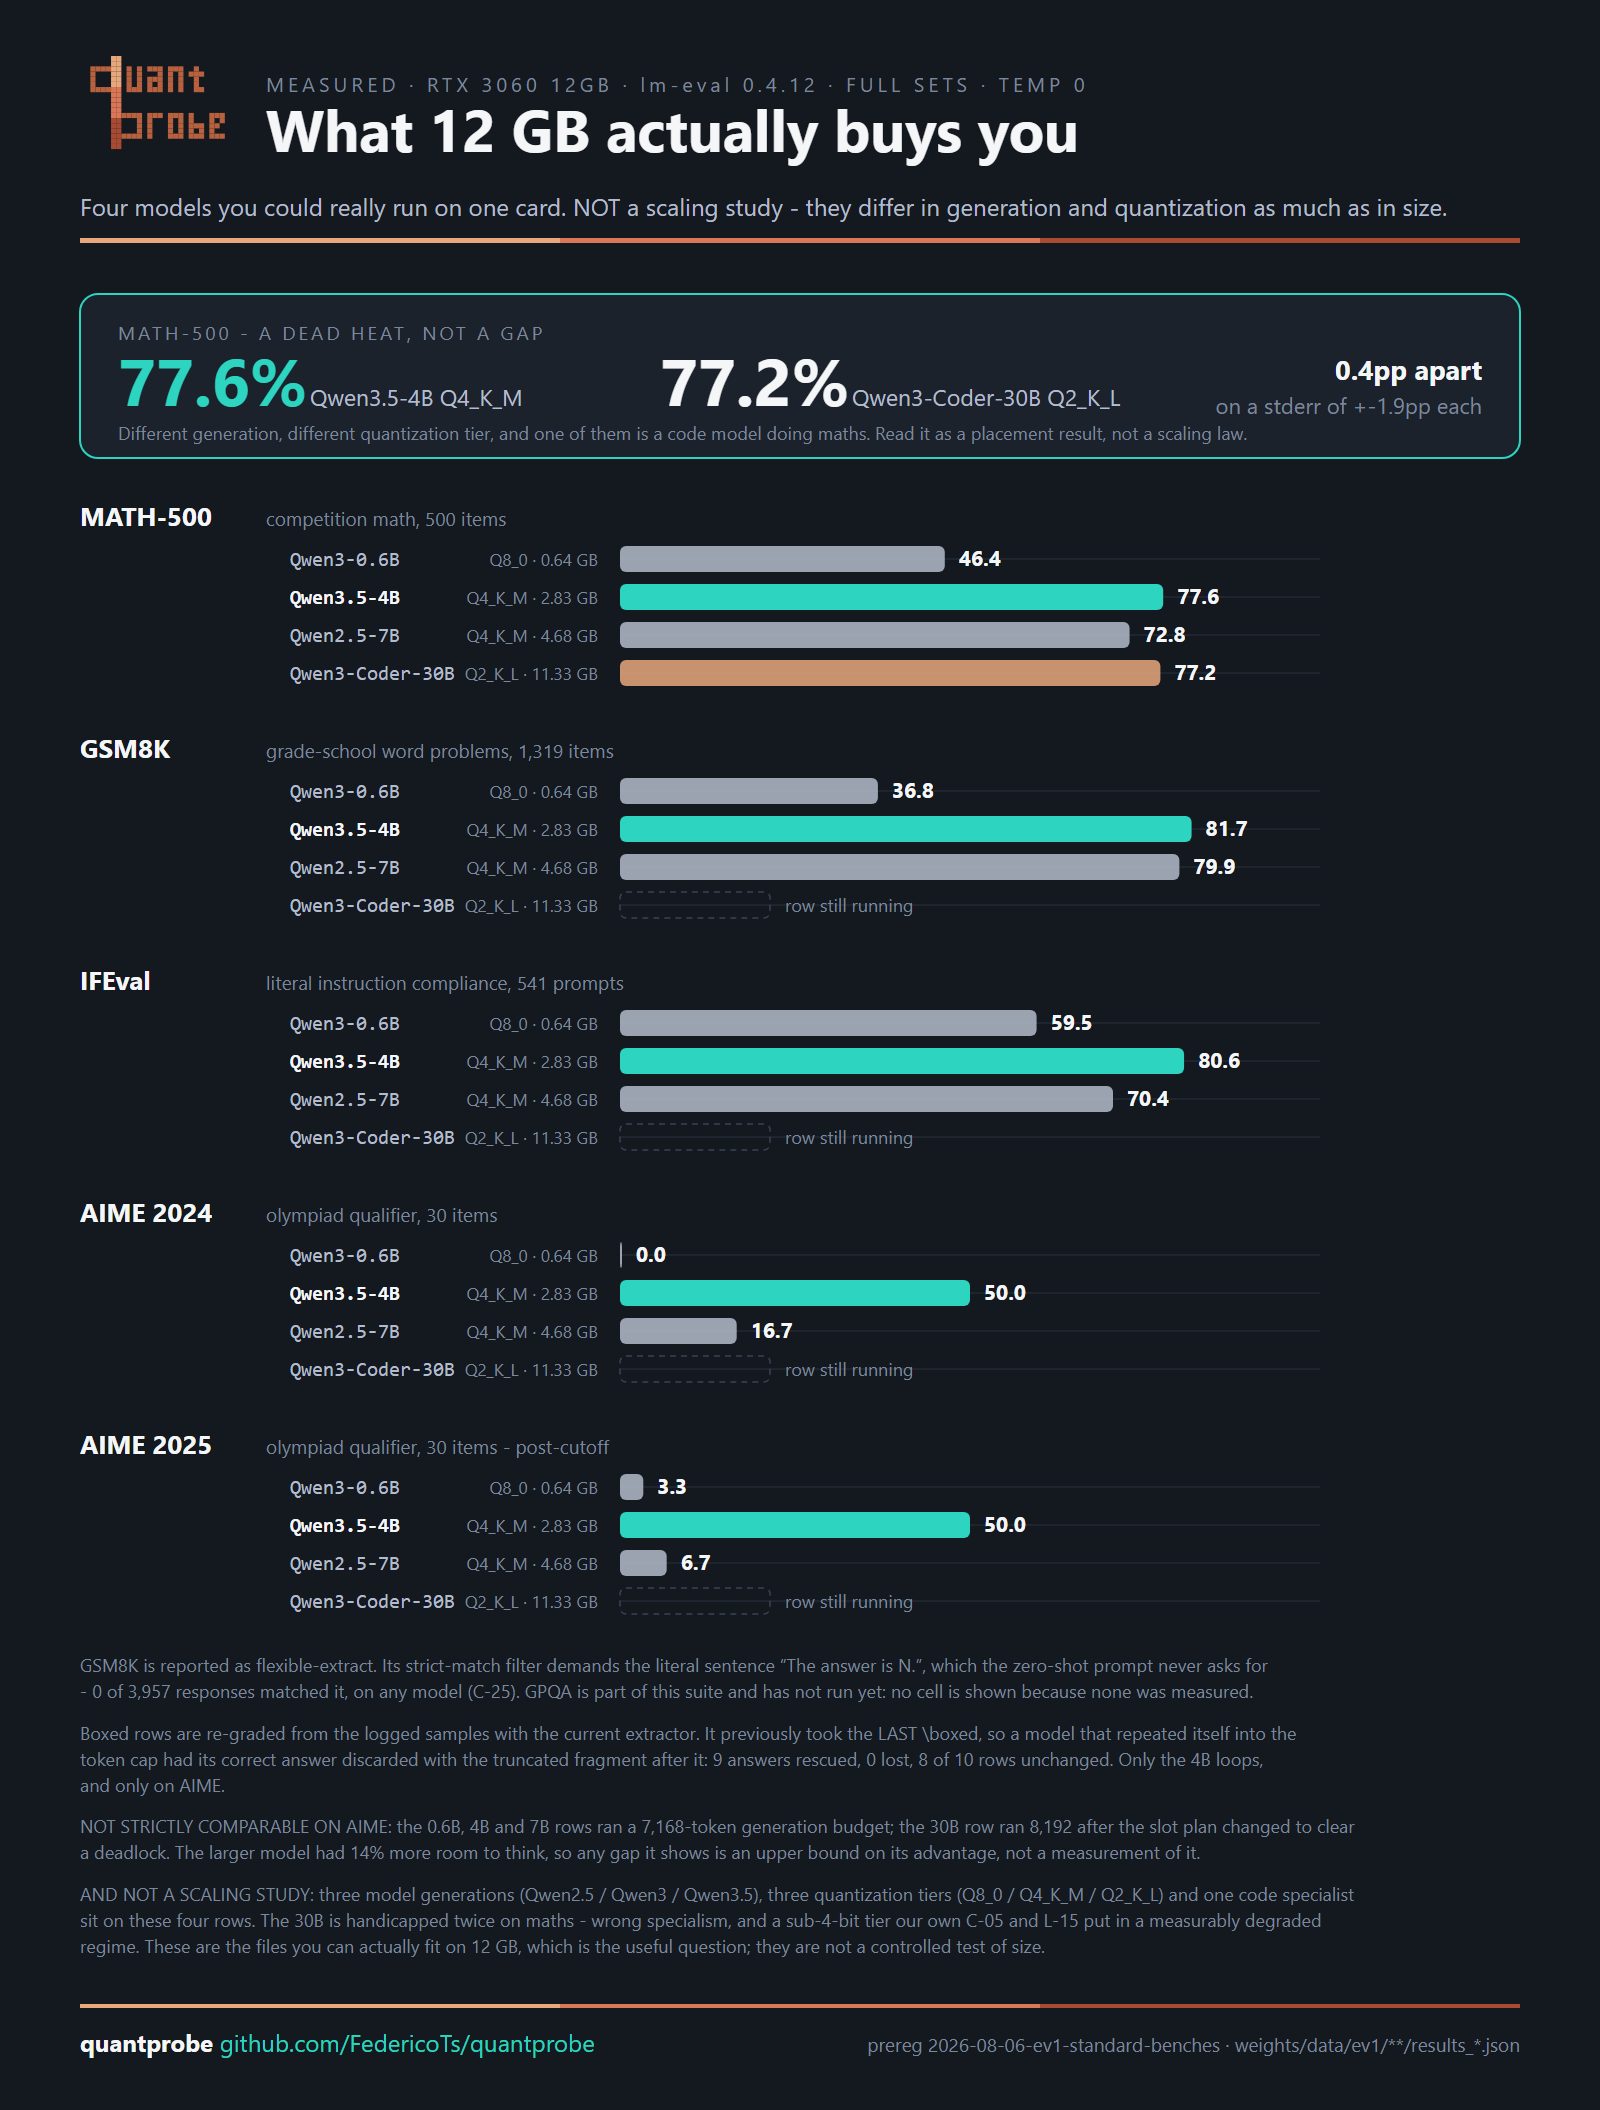
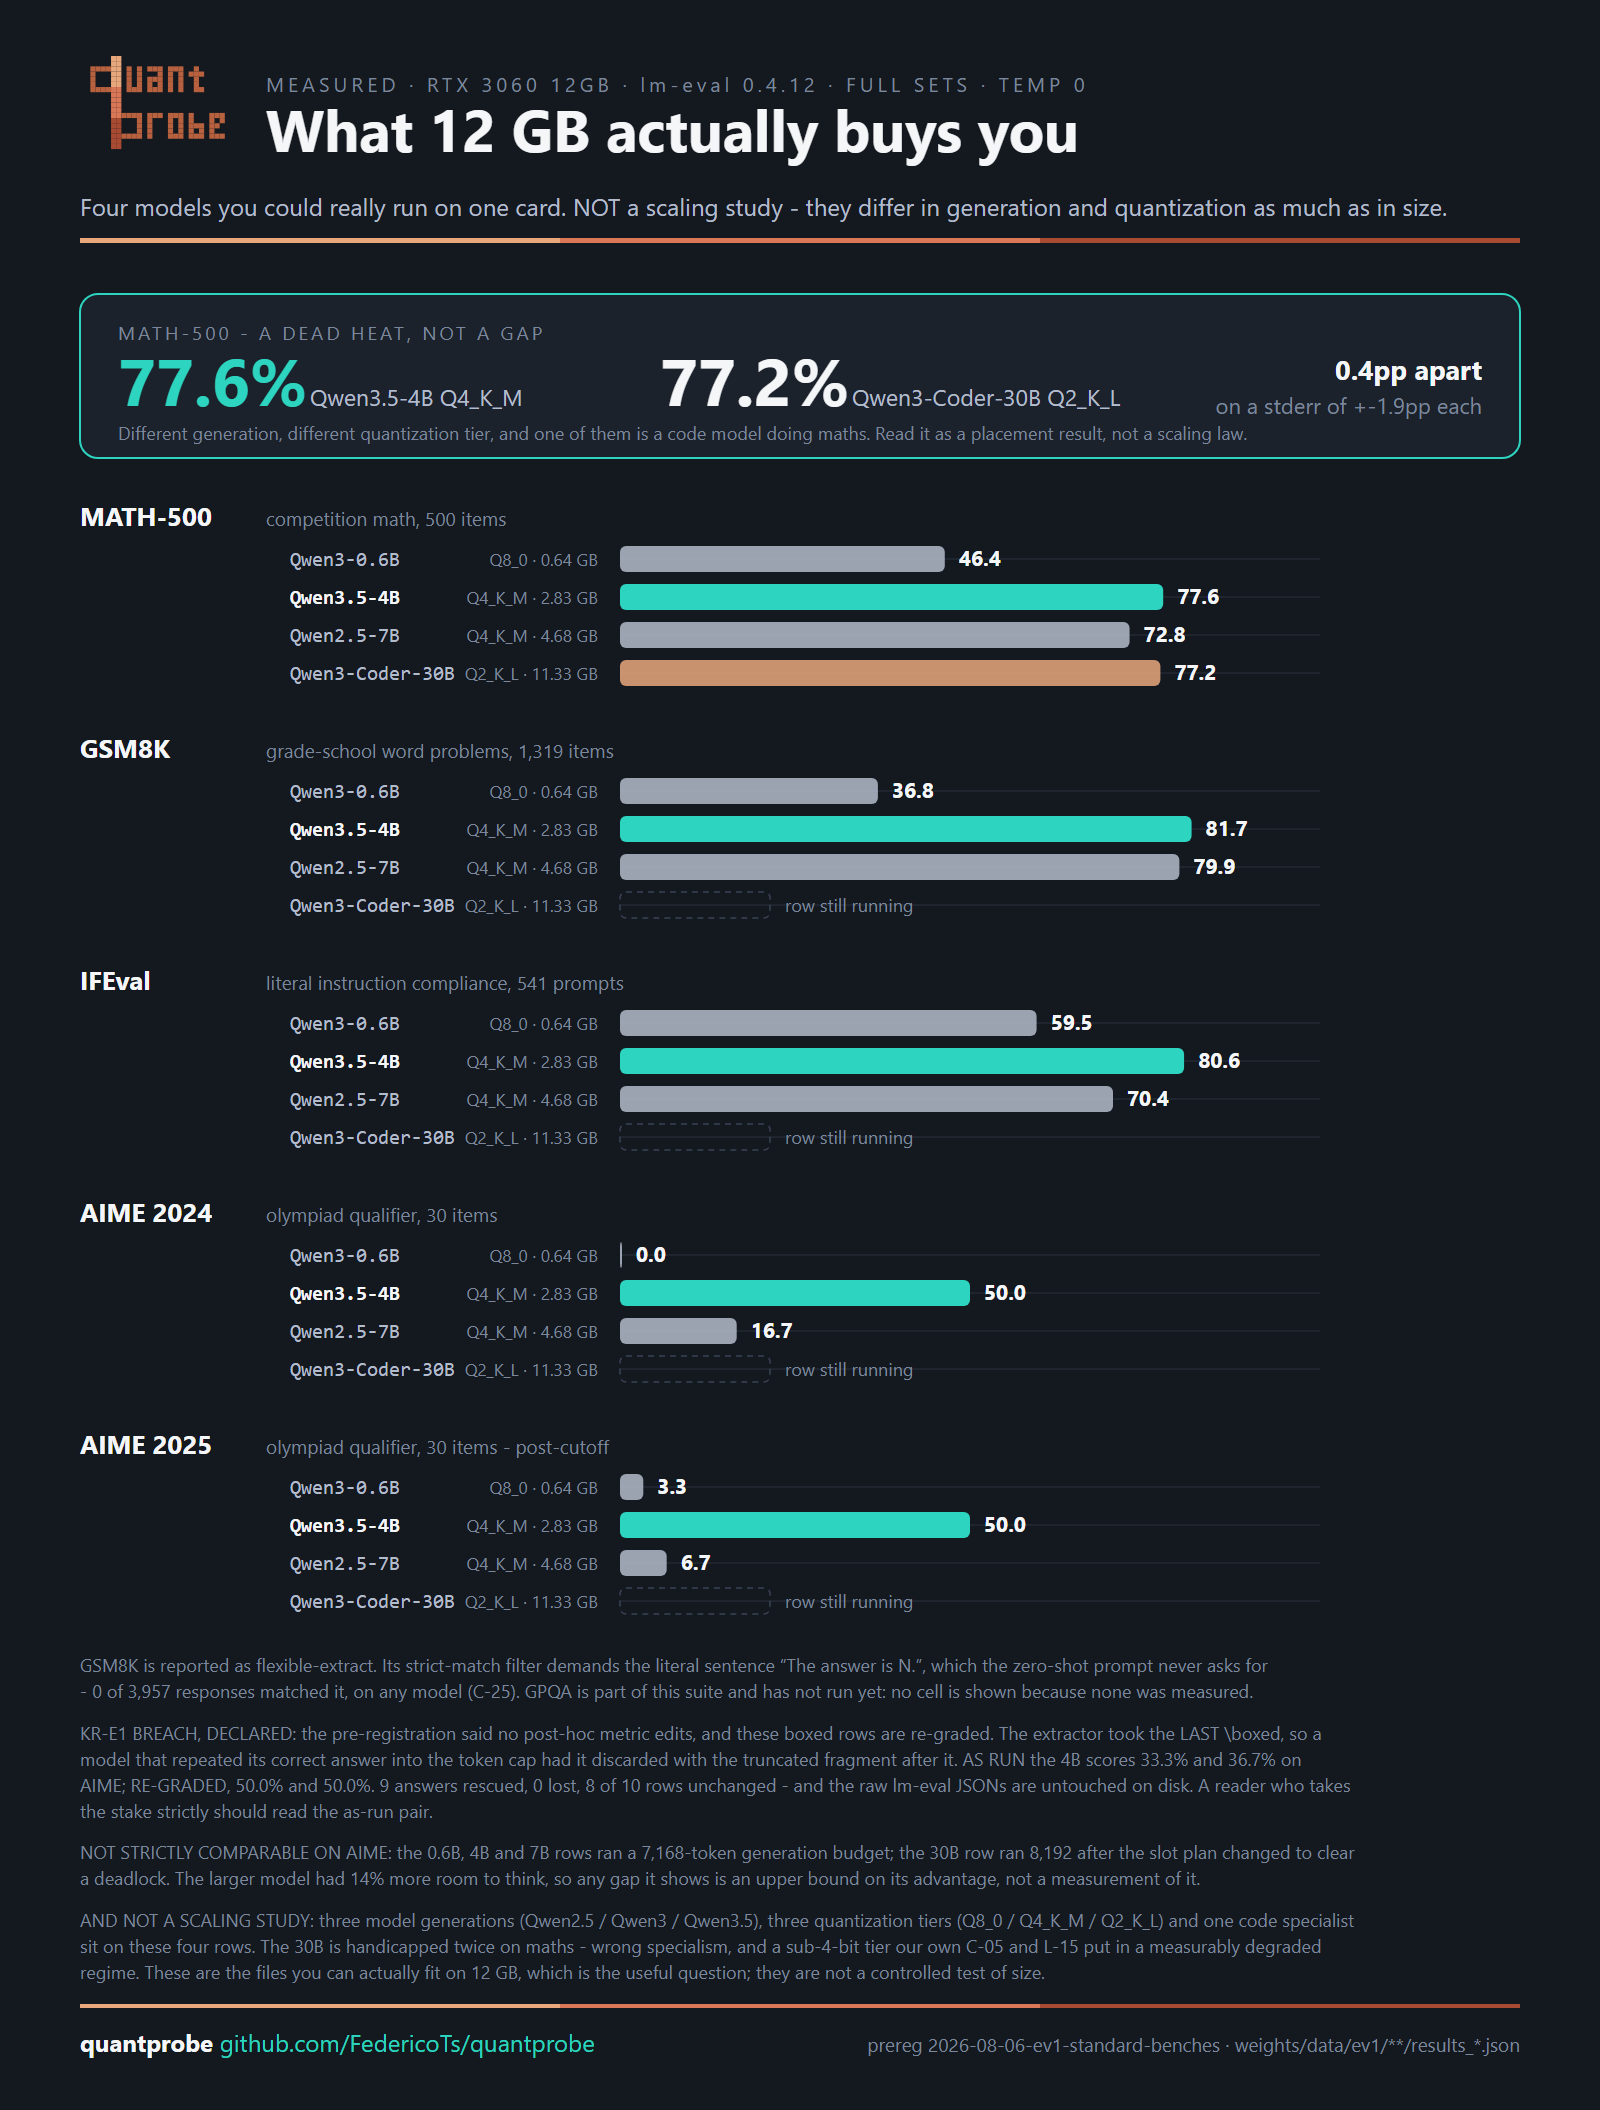
KR-E1 breach, declared - the C-26 re-grade is a post-hoc metric edit
The pre-registration staked "scorer is lm-eval as pinned - no post-hoc metric edits;
result JSONs committed raw". The C-26 extractor fix is a post-hoc metric edit. It was made
after seeing the numbers, and it raised a headline by 17 points on two rows.

I could argue it is a defect fix rather than a metric choice, and I believe that. It does
not matter. The rule exists precisely because "we fixed the scorer and the score went up"
is what a thumb on the scale sounds like from outside, and good faith is invisible from
there. Arguing the exception is what the rule is for.

So both numbers ship, everywhere:

  4B AIME 2024   as run 33.3%   re-graded 50.0%
  4B AIME 2025   as run 36.7%   re-graded 50.0%
  other 8 rows   unchanged      unchanged

A dated amendment on the prereg, the breach named on the chart itself, and the same in
C-26's scope. The raw lm-eval JSONs stay untouched on disk exactly as KR-E1 requires -
re-grading happens beside them in ev1_report.rescore_boxed, never over them - and every row
carries _rescued/_lost provenance.

The one argument that is not just assertion: the correction moved 8 of the 10 boxed rows by
exactly zero. A scorer change that improved everything would deserve no trust. One that
fires only where a specifically described defect occurs can be checked by anyone with the
samples, which are committed.

P-E1 and P-E2 will be scored against the re-graded numbers with the breach attached, since
[…]

Changed region(s): [[0.0312, 0.8009, 0.8438, 0.955]]

diff --git a/weights/make_capability_ladder.py b/weights/make_capability_ladder.py
@@ -180,11 +180,13 @@ def main():
          "sentence “The answer is N.”, which the zero-shot prompt never asks for - "
          "0 of 3,957 responses matched it, on any model (C-25). GPQA is part of this suite and "
          "has not run yet: no cell is shown because none was measured."),
-        ("Boxed rows are re-graded from the logged samples with the current extractor. It "
-         "previously took the LAST " + chr(92) + "boxed, so a model that repeated itself into "
-         "the token cap had its correct answer discarded with the truncated fragment after it: "
-         "9 answers rescued, 0 lost, 8 of 10 rows unchanged. Only the 4B loops, and only "
-         "on AIME."),
+        ("KR-E1 BREACH, DECLARED: the pre-registration said no post-hoc metric edits, and "
+         "these boxed rows are re-graded. The extractor took the LAST " + chr(92) + "boxed, so "
+         "a model that repeated its correct answer into the token cap had it discarded with "
+         "the truncated fragment after it. AS RUN the 4B scores 33.3% and 36.7% on AIME; "
+         "RE-GRADED, 50.0% and 50.0%. 9 answers rescued, 0 lost, 8 of 10 rows unchanged - and "
+         "the raw lm-eval JSONs are untouched on disk. A reader who takes the stake strictly "
+         "should read the as-run pair."),
         ("NOT STRICTLY COMPARABLE ON AIME: the 0.6B, 4B and 7B rows ran a 7,168-token "
          "generation budget; the 30B row ran 8,192 after the slot plan changed to clear a "
          "deadlock. The larger model had 14% more room to think, so any gap it shows is an "

diff --git a/FINDINGS.md b/FINDINGS.md
@@ -517,7 +517,7 @@ Where the code, the law and the measurements do not agree yet. Ranked by how muc
 
 **Magnitude:** 9 of 1,180 items rescued, 0 lost, 8 of 10 rows unchanged; 4B AIME24 33.3 -> 50.0%, AIME25 36.7 -> 50.0%. One response held 683 repetitions of the same boxed answer.
 
-`resolved` · `measured` · scope: One extractor, one model family, one failure shape (repetition into the token cap). The correction is only reachable because --log_samples kept every raw response; a suite run without it cannot be re-graded and its numbers are frozen at whatever the scorer of the day decided. NOT claimed: that 50.0% is the 4B's ceiling - a model that loops into the cap is still losing items to the loop itself, and a larger budget might score higher. The AIME rows also carry a budget disparity (7,168 tokens for 0.6B/4B/7B vs 8,192 for the 30B after a slot-plan change), which favours the 30B and is disclosed on the chart. · evidence: weights/data/ev1/4B/{aime24_boxed,aime25_boxed}/**/samples_*.jsonl - re-graded offline from the logged responses, no re-running. Fix and rationale in weights/lm_eval_tasks/math500_utils.py:last_well_formed_boxed; re-grading in weights/ev1_report.py:rescore_boxed. Original lm-eval verdicts are left untouched on disk so the delta stays auditable. · wired into: `weights/lm_eval_tasks/math500_utils.py (last_well_formed_boxed, used by process_results) and weights/ev1_report.py (rescore_boxed; load_rows re-grades boxed rows by default and records _rescued/_lost as provenance). Guarded by tests/smoke.py t_a_correct_answer_before_a_truncated_tail_still_scores, which pins BOTH directions - it also asserts the extractor still refuses a response whose only box is truncated, because a scorer that got more generous is exactly the change needing a guard against generosity - and t_boxed_rows_are_regraded_with_the_current_extractor, which builds a synthetic row in a temp directory so it runs identically on CI. Both mutation-verified against the pre-fix last-box rule. media/capability_ladder.svg states the correction and its counts on the chart itself.`
+`resolved` · `measured` · scope: One extractor, one model family, one failure shape (repetition into the token cap). The correction is only reachable because --log_samples kept every raw response; a suite run without it cannot be re-graded and its numbers are frozen at whatever the scorer of the day decided. NOT claimed: that 50.0% is the 4B's ceiling - a model that loops into the cap is still losing items to the loop itself, and a larger budget might score higher. The AIME rows also carry a budget disparity (7,168 tokens for 0.6B/4B/7B vs 8,192 for the 30B after a slot-plan change), which favours the 30B and is disclosed on the chart. KR-E1 BREACH, DECLARED RATHER THAN DEFENDED: prereg 2026-08-06 staked 'scorer is lm-eval as pinned - no post-hoc metric edits', and this correction is a post-hoc metric edit, made after seeing the numbers, that raised a headline. The rule exists because 'we fixed the scorer and the score went up' is exactly what a thumb on the scale sounds like from outside, and good faith is not visible from there. So both numbers ship: as-run 33.3% / 36.7%, re-graded 50.0% / 50.0%, on the chart and in a dated prereg amendment. The raw lm-eval JSONs are untouched on disk as KR-E1 requires; re-grading happens beside them, never over them. A reader who takes the stake strictly should read the as-run pair, and is given what they need to. · evidence: weights/data/ev1/4B/{aime24_boxed,aime25_boxed}/**/samples_*.jsonl - re-graded offline from the logged responses, no re-running. Fix and rationale in weights/lm_eval_tasks/math500_utils.py:last_well_formed_boxed; re-grading in weights/ev1_report.py:rescore_boxed. Original lm-eval verdicts are left untouched on disk so the delta stays auditable. · wired into: `weights/lm_eval_tasks/math500_utils.py (last_well_formed_boxed, used by process_results) and weights/ev1_report.py (rescore_boxed; load_rows re-grades boxed rows by default and records _rescued/_lost as provenance). Guarded by tests/smoke.py t_a_correct_answer_before_a_truncated_tail_still_scores, which pins BOTH directions - it also asserts the extractor still refuses a response whose only box is truncated, because a scorer that got more generous is exactly the change needing a guard against generosity - and t_boxed_rows_are_regraded_with_the_current_extractor, which builds a synthetic row in a temp directory so it runs identically on CI. Both mutation-verified against the pre-fix last-box rule. media/capability_ladder.svg states the correction and its counts on the chart itself.`
 
 ### C-27 — FOUR 30B AIME ROWS DIED OF A PIPE-BUFFER DEADLOCK IN OUR OWN RUNNER, AND WE BLAMED THE SOFTWARE UNDER TEST TWICE BEFORE LOOKING AT OURSELVES. run_watched ran the child with stdout=PIPE and stderr=PIPE and then polled in a sleep loop, reading nothing until communicate() after exit. The OS pipe filled, lm-eval blocked in write(), stopped issuing HTTP requests, and the parent waited on a poll() that could never return. Captured live at 02:51 on 2026-08-09: port 8093 LISTENING with ZERO established connections, both python processes burning 0.00s of CPU over 15 seconds, llama-server idle at 607 MHz, and the server's last line a clean release of task 93152 after 24 of 30 items. PROVEN, not argued: the pre-fix pattern against a child writing 2 MB deadlocks (still running after 25s), the same loop writing to a FILE finishes in 0.5s with all 2,000,000 bytes captured. PROVENANCE: introduced in fad66d1, which replaced subprocess.run(capture_output=True) with a Popen poll loop in order to add the progress watchdog. subprocess.run was safe only because communicate() drains both streams on reader threads; hand-rolling the loop silently removed a guarantee nobody had written down. Both 30B MATH-500 rows that SUCCEEDED ran before fad66d1; every AIME attempt ran after it. THE TWO MISDIAGNOSES ARE THE FINDING. First it was called an lm-eval concurrency bug. Then a slot-plan problem, and an entire attempt was spent at ctx 16384 x 1 slot to prove it - which wedged at 24 of 30 with num_concurrent=1, where no race between generations is possible. That result refuted the theory outright and was read instead as a worse deadlock. The discriminator was in the first capture and was not used: A CLIENT THAT HOLDS NO SOCKET AND BURNS NO CPU IS NOT RACING, IT IS BLOCKED. Racing produces contention - connections, CPU, interleaved log lines. Blocking produces silence. Those are opposite signatures and we had the silent one on file three attempts before the cause was found.
 

diff --git a/preregistrations/2026-08-06-ev1-standard-benches.md b/preregistrations/2026-08-06-ev1-standard-benches.md
@@ -61,3 +61,45 @@ missing `langdetect` dependency - installed.
 (b10098's server-side switch) - budgets stay 2048, and EV-1 becomes protocol-COHERENT with
 the grid (both thinking-off), restoring cross-table comparability that v1 had explicitly
 given up. All night-1 rows re-run under v2; P-E1/P-E2 score against v2 numbers only.
+
+---
+
+## AMENDMENT (2026-08-09, AFTER rows were measured - KR-E1 BREACH, DECLARED)
+
+**KR-E1 said: "scorer is lm-eval as pinned - no post-hoc metric edits; result JSONs committed
+raw." The C-26 extractor fix is a post-hoc metric edit. It was made after seeing the numbers,
+and it raised a headline. Declaring it rather than arguing it is fine.**
+
+What happened. math500_utils took the LAST oxed in a response, inheriting lm-eval's
+last_boxed_only_string, which returns None when that box is unbalanced. Qwen3.5-4B reaches the
+correct answer on AIME and then repeats it into the token cap - one response carries 683
+occurrences of the same boxed value - so the trailing fragment is truncated and unbalanced, and
+a response whose boxed value is EXACTLY the gold answer scored zero. Fixed by taking the last
+WELL-FORMED box.
+
+| row | as run (KR-E1, lm-eval as pinned) | re-graded (C-26) |
+|---|---|---|
+| 4B / AIME 2024 | 33.3% | **50.0%** |
+| 4B / AIME 2025 | 36.7% | **50.0%** |
+| the other 8 boxed rows | unchanged | unchanged |
+
+Across all 10 banked boxed rows (1,180 items): 9 answers rescued, 0 lost.
+
+**Why it is reported as primary anyway, and what that costs.** The as-run number is known to be
+wrong in a specific, inspectable way - the model produced the correct answer and the scorer
+failed to read it. Publishing a number we know to be wrong in order to honour a procedural rule
+serves nobody. But the rule exists because "we fixed the scorer and the score went up" is
+exactly what a thumb on the scale sounds like, and no amount of good faith distinguishes the
+two from outside. So:
+
+- The raw lm-eval result JSONs are **untouched on disk**, exactly as KR-E1 requires.
+- Re-grading happens in ev1_report.rescore_boxed, beside them, never over them.
+- Every row carries `_rescued` / `_lost` provenance.
+- **Both numbers appear here**, and the correction is stated on the chart itself.
+- The correction moved 8 of 10 rows by exactly zero. A scorer change that improved everything
+  would deserve no trust; one that fires only where a described defect occurs is checkable.
+
+A reader who takes KR-E1 strictly should read 33.3% and 36.7% and is given what they need to.
+
+**P-E1 and P-E2 are scored against the RE-GRADED numbers, with this breach attached.** Scoring
+a ladder prediction on scores we know to be misread would test the scorer, not the ladder.
